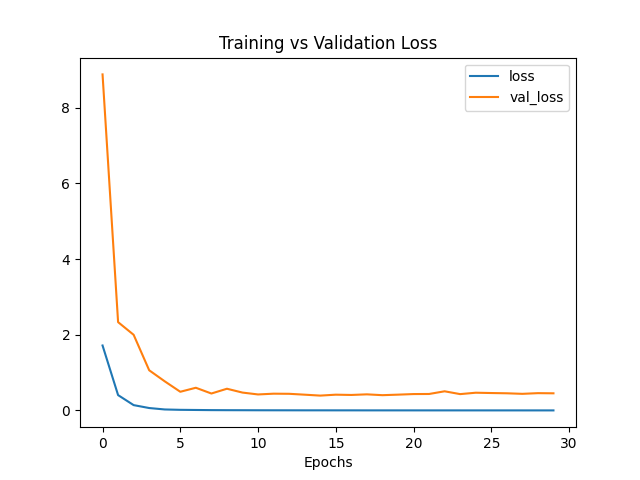
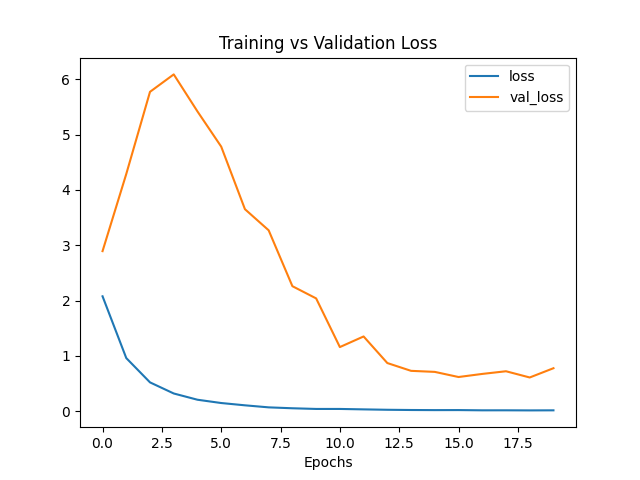
changed function that loads data for model and rescaled them

diff --git a/evaluate.py b/evaluate.py
@@ -1,9 +1,8 @@
 import os
-import tensorflow.keras
 from keras.preprocessing import image
 from keras.models import load_model
-from tensorflow.keras.preprocessing import image_dataset_from_directory
 import numpy as np
+from tensorflow.keras.preprocessing.image import ImageDataGenerator
 from preprocess_files import metadata
 from glob import glob
 
@@ -11,8 +10,7 @@ from glob import glob
 def prepare_image(file):
     img = image.load_img(file, target_size=(img_height, img_width))
     img = image.img_to_array(img)
-    img = img / 255
-    img = img.astype(np.float32)
+    img = img / 255.
     img = np.expand_dims(img, axis=0)
     return img
 
@@ -26,25 +24,26 @@ img_height = 128
 img_width = 147
 
 # load test dataset
-test_ds = image_dataset_from_directory(
+img_gen = ImageDataGenerator(rescale=1./255)
+test_ds = img_gen.flow_from_directory(
     test_dir,
-    labels='inferred',
-    label_mode='categorical',
-    image_size=(img_height,img_width),
-    seed=123,
+    class_mode='categorical',
+    target_size=(img_height,img_width),
+    seed=0,
     batch_size=batch_size
 )
 
-
 # load model
 model = load_model('model.h5')
+print('model loaded')
 
 # evaluate model on test set
-score = model.evaluate(test_ds, verbose=1) 
+score = model.evaluate(test_ds, verbose=1, steps=len(test_ds)) 
 test_loss = round(score[0],2)
 test_accuracy = round(score[1],2)*100
 print('Test loss:', test_loss) 
 print(f'Test accuracy: {test_accuracy} %\n')
+
 
 # get class names
 folders = glob("data/test/*") 
@@ -52,30 +51,31 @@ class_names = [os.path.basename(folder) for folder in folders]
 class_names = sorted(class_names) 
 
 # make predictions on test images
-file_1 = test_dir + os.sep + 'id10715' + os.sep + '41.png' 
-file_2 = test_dir + os.sep + 'id10397' + os.sep + '3.png'
-file_3 = test_dir + os.sep + 'id10935' + os.sep + '11.png'
-files = [file_1,file_2,file_3]
+files = [
+    os.path.join(test_dir, 'id10203'+ os.sep + '41.png'),
+    os.path.join(test_dir, 'id10397'+ os.sep + '6.png'),
+    os.path.join(test_dir, 'id11184'+ os.sep + '5.png')
+]
+
 for i, file in enumerate(files):
     # prepare image
     test_img = prepare_image(file)
     # get softmax probability 
-    y_prob = model.predict(test_img)
-    print(y_prob)
-    index = np.argmax(y_prob)
-    y_prob_max = np.max(y_prob)
+    prob = model.predict(test_img)
+    index = np.argmax(prob)
+    prob_max = np.max(prob)
+    prob_max = round(float(prob_max),2) * 100
     # get predicted spaker name
-    print(index)
     id = class_names[index]
-    speaker = metadata.loc[metadata['VoxCeleb1 ID'] == id]
-    name = speaker['VGGFace1 ID'].item()
+    pred_speaker = metadata.loc[metadata['VoxCeleb1 ID'] == id]
+    pred_name = pred_speaker['VGGFace1 ID'].item()
     # get true speaker name
     true_id = os.path.basename(os.path.dirname(file))
     true_speaker = metadata.loc[metadata['VoxCeleb1 ID'] == true_id]
     true_name = true_speaker['VGGFace1 ID'].item()
-    # print results
+    # print results 
     print('Prediction: ', i + 1)
-    print(f'Predicted speaker {name} with probability: {y_prob_max}')
+    print(f'Predicted speaker {pred_name} with probability: {prob_max} %')
     print('True speaker name: ', true_name)
     print('-------------------------------------')
 

diff --git a/cnn.py b/cnn.py
@@ -1,12 +1,14 @@
+import tensorflow as tf
 from tensorflow.keras import Sequential
 from tensorflow.keras import layers
-from tensorflow.keras.preprocessing import image_dataset_from_directory
-from tensorflow.python.keras.preprocessing.image import ImageDataGenerator 
+from tensorflow.keras.preprocessing.image import ImageDataGenerator
+from tensorflow.keras.layers.experimental.preprocessing import RandomCrop, Rescaling
 from tensorflow.keras.callbacks import EarlyStopping
-import tensorflow as tf
-import pandas as pd
-import matplotlib.pyplot as plt
+from tensorflow.keras import optimizers
 import os
+import matplotlib.pyplot as plt
+import pandas as pd
+from keras.models import load_model
 
 # get datasets directories
 train_dir = os.path.join('data', 'train')
@@ -18,33 +20,31 @@ img_height = 128
 img_width = 147
 n_channels = 3
 
+img_gen = ImageDataGenerator(rescale=1./255)
 
 # load training dataset
-train_ds = ImageDataGenerator(rescale=1./255)
-train_ds = image_dataset_from_directory(
+train_ds = img_gen.flow_from_directory(
     train_dir,
-    labels='inferred',
-    label_mode='categorical',
-    image_size=(img_height,img_width),
+    class_mode='categorical',
+    target_size=(img_height,img_width),
     seed=0,
-    batch_size=batch_size
+    batch_size=batch_size,
+    shuffle=True
 )
 
 # load validation dataset
-val_ds = ImageDataGenerator(rescale=1./255)
-val_ds = image_dataset_from_directory(
+val_ds = img_gen.flow_from_directory(
     val_dir,
-    labels='inferred',
-    label_mode='categorical',
-    image_size=(img_height,img_width),
+    class_mode='categorical',
+    target_size=(img_height,img_width),
     seed=0,
-    batch_size=batch_size
+    batch_size=batch_size,
+    shuffle=True
 )
 
-AUTOTUNE = tf.data.AUTOTUNE
-train_ds = train_ds.cache().shuffle(1000).prefetch(buffer_size=AUTOTUNE)
-val_ds = val_ds.cache().prefetch(buffer_size=AUTOTUNE)
-
+#AUTOTUNE = tf.data.AUTOTUNE
+#train_ds = train_ds.cache().shuffle(1000).prefetch(buffer_size=AUTOTUNE)
+#val_ds = val_ds.cache().prefetch(buffer_size=AUTOTUNE)
 
 # build model
 model = Sequential([
@@ -68,23 +68,25 @@ model = Sequential([
 print(model.summary())
 
 # compile model
+opt = optimizers.Adam(learning_rate=0.0001)
 model.compile(
-    optimizer='adam',
+    optimizer=opt,
     loss='categorical_crossentropy',
     metrics=['accuracy'])
 
 # fit model to data
-epochs=30
-callback = EarlyStopping(monitor='loss', patience=5)
+epochs=20
+#callback = EarlyStopping(monitor='val_loss',mode='auto')
 history = model.fit(
   train_ds,
   validation_data=val_ds,
   epochs=epochs,
-  callbacks=[callback]
+  #callbacks=[callback]
 )
 
 # save model weights to HDF5
 model.save("model.h5")
+
 
 # plot training and validation loss
 history_frame = pd.DataFrame(history.history)
